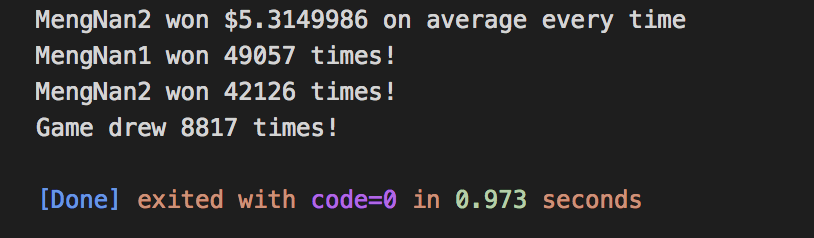
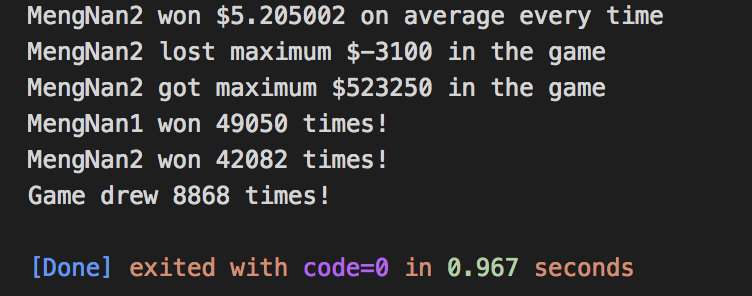
update

diff --git a/MengNanGame.java b/MengNanGame.java
@@ -9,6 +9,7 @@ public class MengNanGame {
     public static void main(String[] args) {
         int gamePlayNumber = 100000, mengNan1WinCount=0, mengNan2WinCount=0,mengNanDrawCount=0;
         float money;
+        int moneyTmp=0,maximumDeficit=0, maximumProfit=0;
         MengNan mengNan1;
         MengNan mengNan2;
         for(int i=0; i<gamePlayNumber; i++)
@@ -32,9 +33,21 @@ public class MengNanGame {
             mengNan2WinCount++;  
             if(winner=="draw")
             mengNanDrawCount++;
+            
+            if(winner == "mengNan2")
+            moneyTmp = moneyTmp + 150;
+            else
+            moneyTmp = moneyTmp - 100;
+            
+            if(moneyTmp<maximumDeficit)
+            maximumDeficit=moneyTmp;
+            if(moneyTmp>maximumProfit)
+            maximumProfit=moneyTmp;
         }   
         money =(float) (mengNan2WinCount) * 150 /gamePlayNumber - (float) (mengNan1WinCount+mengNanDrawCount) * 100 /gamePlayNumber;
         System.out.println("MengNan2 won $"+money+" on average every time");
+        System.out.println("MengNan2 lost maximum $"+maximumDeficit+" in the game");
+        System.out.println("MengNan2 got maximum $"+maximumProfit+" in the game");
         System.out.println("MengNan1 won "+mengNan1WinCount+" times!");
         System.out.println("MengNan2 won "+mengNan2WinCount+" times!");
         System.out.println("Game drew "+mengNanDrawCount+" times!");

diff --git a/README.md b/README.md
@@ -4,6 +4,8 @@
 
 * 玩家后手每次赢钱期望14块,如果平局也输钱,每次赢钱期望5-6块
 
+* 在100,000次游戏中,最大亏损为1000左右,最大收益为500,000左右
+
 * 先手胜率49%
 
 * 后手胜率42%
